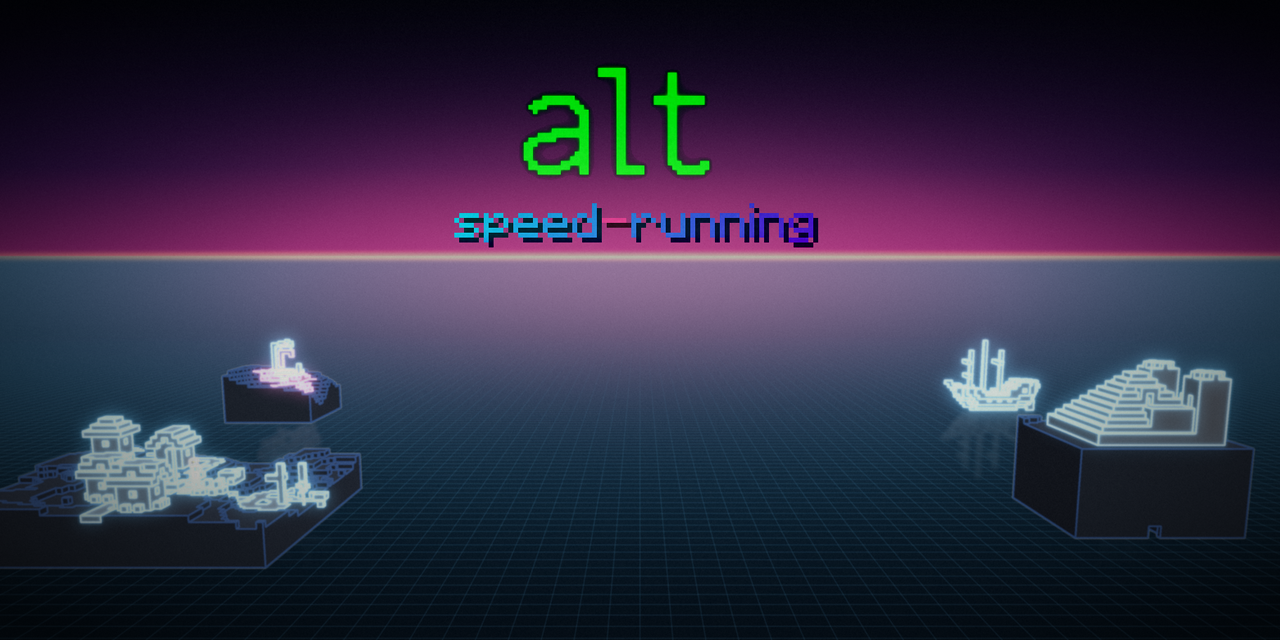
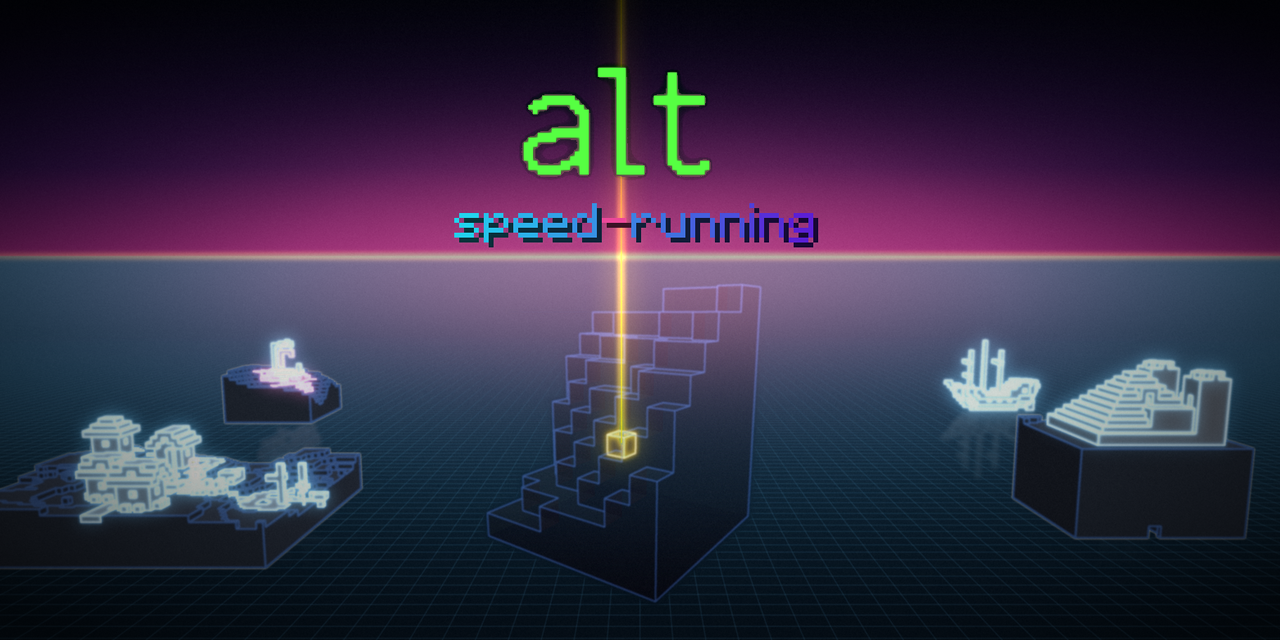
Lobby and social card: softer lines
The lobby's lines are blurred further, so its far-off models stay smooth
at any window size, and the social card is rebuilt from the same render
with the buried treasure back in the centre.

Changed region(s): [[0.375, 0.0, 0.5938, 0.9375]]

diff --git a/brand/gen_wallpapers.py b/brand/gen_wallpapers.py
@@ -1,10 +1,10 @@
 #!/usr/bin/env python3
 """Render the five seed-type wallpapers shown behind the countdown.
 
-The look is a still from Tron (1982): each structure a lit grey model
-traced in glowing strips - a white-hot core in an azure halo, only where
-two surfaces meet - standing on a dark slab of its own terrain, on a
-glossy floor grid under a low sunset, softened like film and grained.
+Each structure is a lit grey model traced in glowing strips - a
+white-hot core in an azure halo, only where two surfaces meet -
+standing on a dark slab of its own terrain, on a glossy floor grid
+under a low sunset, softened like film and grained.
 
 The lines are not drawn edge by edge. Every attempt at that left nicks,
 beads or overshoots where one block's stroke met the next; instead each
@@ -134,7 +134,7 @@ class Canvas:
 
 # The mod's palette (Palette.java), so the renders and the screens they
 # sit behind are one set of colours.
-CYAN = (90, 185, 255)  # Tron azure
+CYAN = (90, 185, 255)  # azure
 PURPLE = (169, 123, 255)
 MAGENTA = (236, 72, 153)
 ORANGE = (255, 106, 0)
@@ -533,7 +533,7 @@ def faces_of(scene):
     """Every exposed face, with its edges marked bright (a silhouette
     or crease) or faint (a seam to the next block in the same plane).
 
-    The bright/faint split is what makes this read as Tron rather than
+    The bright/faint split is what makes this read as neon rather than
     as Minecraft with the textures off. Every block outlined equally is
     a grid; outlining only where the surface turns is a shape.
     """
@@ -603,7 +603,7 @@ class Camera:
 
 
 def sky(img, horizon):
-    """Night overhead, a Mead sunset at the horizon, black floor below."""
+    """Night overhead, a sunset at the horizon, black floor below."""
     w, h = img.size
     px = np.zeros((h, w, 3), float)
     ys = np.arange(h)[:, None]
@@ -637,13 +637,17 @@ GRID = 4   # floor grid spacing, in blocks
 # Line softness and glow size. The lobby's models are far and small,
 # and at full size the glow swallowed them.
 LINE_SCALE = 1.0
+# How soft the lines are, apart from the glow's size. The lobby's lines
+# are thin (LINE_SCALE) but still want blurring well past a pixel, or a
+# far diagonal edge shows its steps when the window is large.
+LINE_SOFT = 1.0
 # How far the floor grid runs before it has faded out. The lobby's
 # models stand 170-300 blocks off, where the default had all but gone.
 GRID_REACH = 400
 
 
 def grid(draw, cam, floor_y, horizon, w, h, origin=(0, 0), spacing=GRID, reach=400):
-    """The Tron floor: cyan lines on the plane under the slab, fading
+    """The floor: cyan lines on the plane under the slab, fading
     into the haze at the horizon."""
     c = cam.t
     def line(p0, p1):
@@ -746,7 +750,7 @@ def draw_model(base, glow, cam, faces, mirror_y=None, dim=1.0, slab_alpha=170):
             m = m.filter(ImageFilter.MaxFilter(grow))
         # Blurred well past the pixel grid, so a stair-stepped diagonal
         # cannot read as one; lifted back so the core stays bright.
-        soft = np.asarray(m.filter(ImageFilter.GaussianBlur(1.5 * SS * LINE_SCALE)), float) / 255
+        soft = np.asarray(m.filter(ImageFilter.GaussianBlur(1.5 * SS * LINE_SCALE * LINE_SOFT)), float) / 255
         return np.minimum(1.0, soft * 1.5)[..., None]
 
     core = soft(solid_e, 3) * dim
@@ -773,7 +777,7 @@ def beam(base, glow, cam, scene):
     """A shaft of light straight up out of the chest, to the sky.
 
     The treasure is one block under several of sand; without a marker
-    the picture is a slab of beach. X marks the spot, Tron-style.
+    the picture is a slab of beach. X marks the spot.
     """
     chests = [k for k, v in scene.items() if v[0] == "S" and v[1] == "chest"]
     if chests:
@@ -838,7 +842,7 @@ def render(dump_dir, out_dir, kind, out_w=W):
     # sunset is - and at a given pitch, how high the horizon sits is set
     # by the focal length. A long lens pushes it off the top of the
     # frame (the first renders had no sky at all); a short one, from
-    # close in, brings it down and gives the steep Mead perspective.
+    # close in, brings it down and gives a steep perspective.
     sample = pts[:: max(1, len(pts) // 4000)]
     want_horizon = h * 0.27
     dist = radius * 2.6
@@ -987,8 +991,9 @@ LOBBY_CENTRE = 0.66     # image row the camera looks at
 
 
 def render_lobby(dump_dir, out_dir, out_w=W):
-    global LINE_SCALE, GRID_REACH
+    global LINE_SCALE, GRID_REACH, LINE_SOFT
     LINE_SCALE = 0.45
+    LINE_SOFT = float(os.environ.get('LOBBY_SOFT', 1.8))
     GRID_REACH = 700
     merged = {}
     beams = []
